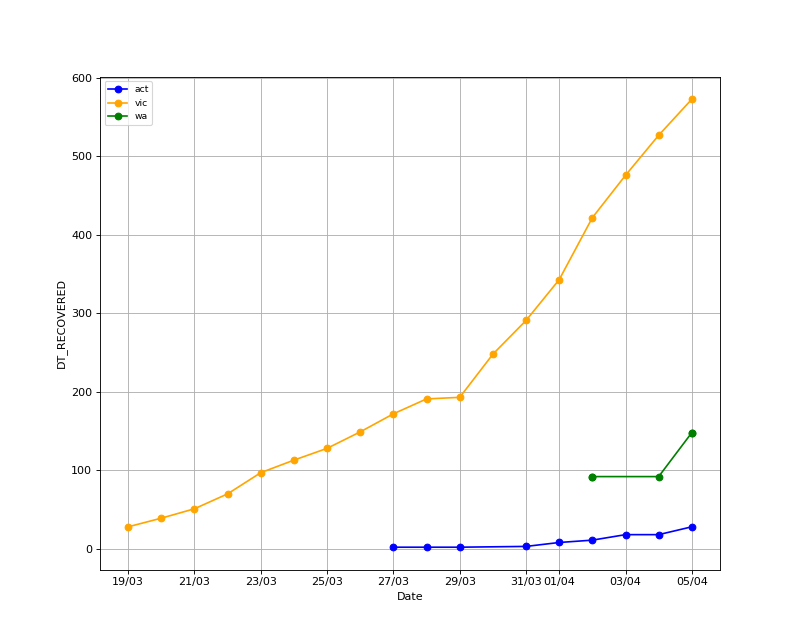
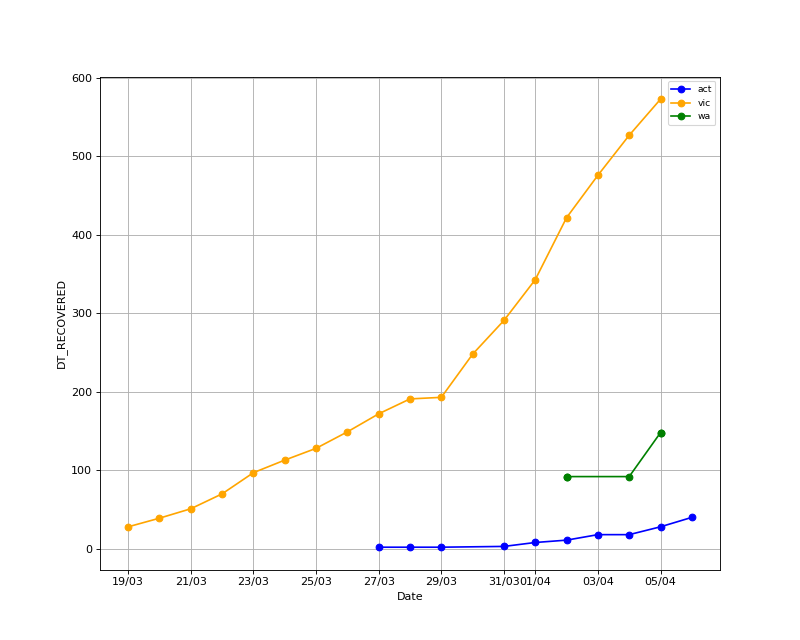
fixed nsw Sydney bug; updated graphs+added option to auto-generate each run for output_data_from_news.py

diff --git a/output_graphs/output_graphs.py b/output_graphs/output_graphs.py
@@ -1,4 +1,5 @@
 from os import listdir
+from os.path import expanduser
 import csv
 import numpy as np
 import datetime
@@ -20,15 +21,21 @@ def read_csv(datatype,
     # Get the newest, based on binary sort order
     # (year->month->day->revision id)
     fnam = list(sorted(
-        listdir('../state_news_releases/output')
+        listdir(expanduser(
+            '~/dev/covid_19_au_grab/state_news_releases/output'
+        ))
     ))[-1]
 
-    with open(f'../state_news_releases/output/{fnam}',
-              'r', encoding='utf-8', errors='replace') as f:
+    with open(
+        expanduser(f'~/dev/covid_19_au_grab/'
+                   f'state_news_releases/output/{fnam}',),
+        'r', encoding='utf-8', errors='replace'
+    ) as f:
 
         reader = csv.DictReader(f, delimiter='\t')
 
         for row in reader:
+            print(row)
             if row['datatype'] != datatype:
                 continue
             if state_filter and row['state_name'] not in state_filter:
@@ -132,15 +139,13 @@ def output_graph(datatype,
     plt.grid()
     #plt.show()
 
-    plt.savefig(y_label+'.png')
+    plt.savefig(expanduser(
+        f'~/dev/covid_19_au_grab/output_graphs/{y_label}.png'
+    ))
     plt.clf()
 
 
 def output_graphs():
-    pass
-
-
-if __name__ == '__main__':
     output_graph('DT_CASES')
     output_graph('DT_NEW_CASES')
     output_graph('DT_CASES_TESTED')
@@ -151,7 +156,7 @@ if __name__ == '__main__':
     output_graph('DT_AGE', state_filter='act')
     output_graph('DT_HOSPITALIZED')
     output_graph('DT_RECOVERED')
-    #output_graph('DT_ICU')
+    # output_graph('DT_ICU')
     output_graph('DT_CASES_BY_REGION', state_filter='vic',
                  name_filter=lambda p: p[0].lower() < 'm',
                  append_to_name='a-l')
@@ -170,3 +175,7 @@ if __name__ == '__main__':
     output_graph('DT_NEW_CASES_BY_REGION', state_filter='wa')
     output_graph('DT_SOURCE_OF_INFECTION')
     output_graph('DT_DEATHS')
+
+
+if __name__ == '__main__':
+    output_graphs()

diff --git a/state_news_releases/NSWNews.py b/state_news_releases/NSWNews.py
@@ -204,7 +204,21 @@ class NSWNews(StateNewsBase):
             'Murrumbidgee',
             'Far West',
         ):
-            tr = self._pq_contains(table, 'tr', lhd)
+            tr = (
+                # Reduce the chance "Sydney" isn't confused
+                # with other values which contain it!
+                self._pq_contains(table, 'tr', f'>{lhd}<') or
+                self._pq_contains(table, 'tr', f'> {lhd} <') or
+                self._pq_contains(table, 'tr', f'> {lhd}<') or
+                self._pq_contains(table, 'tr', f'>{lhd} <')
+            )
+
+            if lhd != 'Sydney':
+                # Only allow broad checks for LHDs which *aren't*
+                # Sydney - better this than potentially giving
+                # incorrect values!
+                tr = tr or self._pq_contains(table, 'tr', lhd)
+
             if not tr:
                 continue
 

diff --git a/state_news_releases/output_data_from_news.py b/state_news_releases/output_data_from_news.py
@@ -17,6 +17,7 @@ from covid_19_au_grab.state_news_releases.constants import constant_to_name
 
 
 UPDATE_VIC_POWERBI = False
+UPDATE_GRAPHS = False
 
 
 def remove_control_characters(s):
@@ -110,7 +111,8 @@ if __name__ == '__main__':
     pprint(data)
     print()
 
-    sys.stdout = Logger(sys.stdout)
+    # Override stdout to point to both stdout and the output file
+    logger = sys.stdout = Logger(sys.stdout)
 
     print('state_name\tdatatype\tname\tvalue\tdate_updated\tsource_url\ttext_match')
     for state_name, datapoints in data.items():
@@ -129,3 +131,9 @@ if __name__ == '__main__':
                   f'{datapoint.source_url}\t'
                   f'{text_match}')
 
+    # Reset stdout
+    sys.stdout = logger.stream
+
+    if UPDATE_GRAPHS:
+        from covid_19_au_grab.output_graphs.output_graphs import output_graphs
+        output_graphs()
